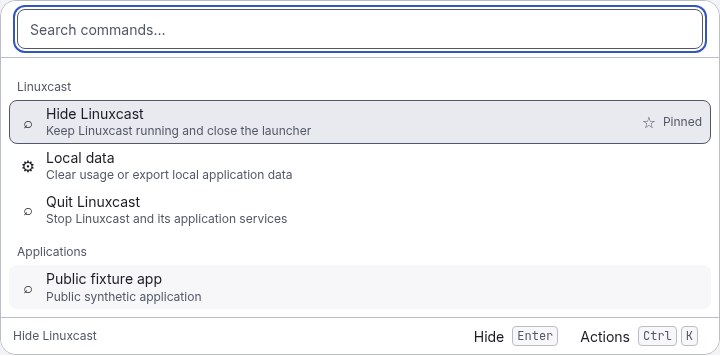
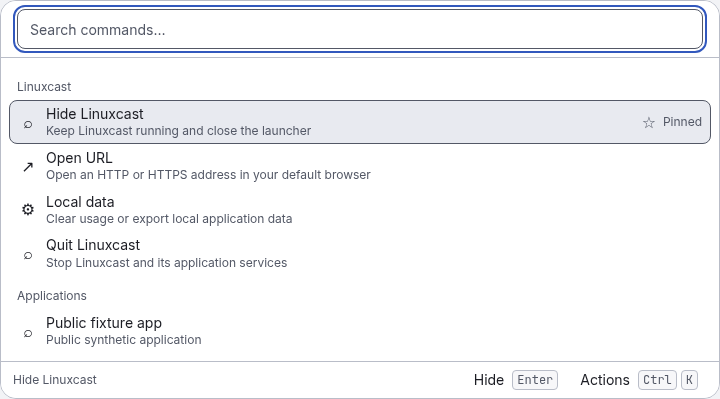
Verify explicit browser handoff and recovery in the production application

diff --git a/apps/desktop/tests/shell.integration.test.ts b/apps/desktop/tests/shell.integration.test.ts
@@ -7,7 +7,7 @@ import { readFile } from 'node:fs/promises';
 import { randomUUID } from 'node:crypto';
 import AxeBuilder from '@axe-core/playwright';
 import { execFileSync, spawn } from 'node:child_process';
-import { mkdtempSync, mkdirSync, rmSync, writeFileSync } from 'node:fs';
+import { existsSync, mkdtempSync, mkdirSync, rmSync, writeFileSync } from 'node:fs';
 import { createRequire } from 'node:module';
 import { tmpdir } from 'node:os';
 import { dirname, join, resolve } from 'node:path';
@@ -47,6 +47,24 @@ Name=Public fixture app
 Comment=Public synthetic application
 Exec="${applicationTarget}" "two words" "literal;$(no-shell)" %c %% %f %u
 `,{mode:0o600});
+  const urlMarker=join(temporary,'url-handoff.json'),urlTarget=join(temporary,'public browser handler with spaces');
+  writeFileSync(urlTarget,`#!/usr/bin/python3
+import json,sys
+with open(${JSON.stringify(urlMarker)},'w',encoding='utf-8') as output:
+ json.dump({'argv':sys.argv[1:],'stdin':sys.stdin.read()},output)
+print('SYNTHETIC_BROWSER_STDOUT')
+print('SYNTHETIC_BROWSER_STDERR',file=sys.stderr)
+`,{mode:0o700});
+  const browserEntry=join(temporary,'data/applications/public-web.desktop');
+  const browserDesktop=`[Desktop Entry]
+Type=Application
+Name=Public browser fixture
+NoDisplay=true
+Exec="${urlTarget}" %u
+MimeType=x-scheme-handler/http;x-scheme-handler/https;
+`;
+  writeFileSync(browserEntry,browserDesktop,{mode:0o600});
+  writeFileSync(join(temporary,'config/mimeapps.list'),'[Default Applications]\nx-scheme-handler/http=public-web.desktop;\nx-scheme-handler/https=public-web.desktop;\n',{mode:0o600});
   const seed=await StorageOwner.open({dataDirectory:join(temporary,'data/linuxcast'),applicationBuild:'synthetic-data-settings'});
   seed.request({schemaVersion:1,requestId:randomUUID(),method:'commands.recordUse',params:{commandId:'builtin.public-fixture'}});
   await seed.confirmSuccessfulLaunch();await seed.close();
@@ -57,23 +75,61 @@ Exec="${applicationTarget}" "two words" "literal;$(no-shell)" %c %% %f %u
     XDG_RUNTIME_DIR: join(temporary, 'runtime'), XDG_SESSION_TYPE: 'x11',XDG_DATA_DIRS:join(temporary,'system'),XDG_CONFIG_DIRS:join(temporary,'config'),XDG_CURRENT_DESKTOP:'GNOME',DBUS_SESSION_BUS_ADDRESS:'unix:path=/nonexistent-linuxcast-app-fixture-bus' };
   for (const key of ['DISPLAY', 'XAUTHORITY', 'PATH', 'LANG'])
     if (process.env[key]) env[key] = process.env[key]!;
+  const showExisting=async()=>await new Promise<number>((resolve,reject)=>{
+    const second=spawn(executable,[wrapper,'--show'],{env,stdio:'ignore'});
+    const timer=setTimeout(()=>{second.kill('SIGKILL');reject(new Error('Application reopen timed out.'));},10000);
+    second.once('error',error=>{clearTimeout(timer);reject(error);});second.once('exit',code=>{clearTimeout(timer);resolve(code??1);});
+  });
   application = await electron.launch({ executablePath: executable, args: [wrapper, '--show'],
     chromiumSandbox: true, env, timeout: 20000 });
   const app = application, page = await app.firstWindow();
   await page.waitForURL(appUrl);
   const query=page.getByRole('searchbox',{name:'Search commands',exact:true});
   await query.waitFor({timeout:5000});
-  await expect.poll(()=>page.getByRole('option').count()).toBe(4);
+  await expect.poll(()=>page.getByRole('option').count()).toBe(5);
   await expect.poll(()=>query.evaluate(element=>element===document.activeElement)).toBe(true);
   await query.fill('Public fixture app');
   await expect.poll(()=>page.getByRole('option').count()).toBe(1);
   await query.press('Enter');
   await expect.poll(async()=>{try{return JSON.parse(await readFile(launchMarker,'utf8'));}catch{return null;}}).toEqual({argv:['two words','literal;$(no-shell)','Public fixture app','%'],stdin:''});
   await expect.poll(()=>app.evaluate(({BrowserWindow})=>BrowserWindow.getAllWindows()[0]!.isVisible())).toBe(false);
-  expect(await new Promise<number>((resolve,reject)=>{const second=spawn(executable,[wrapper,'--show'],{env,stdio:'ignore'});const timer=setTimeout(()=>{second.kill('SIGKILL');reject(new Error('Application reopen timed out.'));},10000);second.once('error',error=>{clearTimeout(timer);reject(error);});second.once('exit',code=>{clearTimeout(timer);resolve(code??1);});})).toBe(0);
+  expect(await showExisting()).toBe(0);
   await expect.poll(()=>app.evaluate(({BrowserWindow})=>BrowserWindow.getAllWindows()[0]!.isVisible())).toBe(true);
+  // A URL query offers a local command. Only explicit Form submission reaches GIO.
+  const publicUrl='https://example.invalid/search?q=%24%28touch%20NO_SHELL%29%3B%20%22two%20words%22#public';
+  await query.fill(publicUrl);await expect.poll(()=>page.getByRole('option').count()).toBe(1);
+  await expect.poll(()=>page.getByRole('option',{selected:true}).textContent()).toContain('Open URL');
+  expect(existsSync(urlMarker)).toBe(false);await query.press('Enter');
+  const urlField=page.getByRole('textbox',{name:/^URL/});await urlField.waitFor();
+  expect(await urlField.inputValue()).toBe(publicUrl);expect(existsSync(urlMarker)).toBe(false);
+  await page.getByRole('button',{name:'Cancel',exact:true}).click();await query.waitFor();expect(existsSync(urlMarker)).toBe(false);
+  await query.press('Enter');await urlField.waitFor();await urlField.fill('javascript:alert(1)');
+  await page.getByRole('button',{name:'Open URL',exact:true}).click();
+  await expect.poll(()=>urlField.getAttribute('aria-invalid')).toBe('true');expect(existsSync(urlMarker)).toBe(false);
+  await urlField.fill(publicUrl);
+  const urlEvidence=join(root,'apps/desktop/evidence');mkdirSync(urlEvidence,{recursive:true});
+  for(const theme of ['dark','light'] as const){
+    await app.evaluate(({nativeTheme},value)=>{nativeTheme.themeSource=value;},theme);
+    await expect.poll(()=>page.locator('.lc-theme').getAttribute('data-lc-theme')).toBe(theme);
+    await page.evaluate(async()=>{await document.fonts.ready;await Promise.all(document.getAnimations().map(animation=>animation.finished.catch(()=>{})));});
+    await page.screenshot({path:join(urlEvidence,`open-url-${theme}.png`)});
+    expect((await new AxeBuilder({page}).setLegacyMode().analyze()).violations).toEqual([]);
+  }
+  // Missing native default is real, not an instrumented browser-success response.
+  rmSync(browserEntry);await page.getByRole('button',{name:'Open URL',exact:true}).click();
+  await expect.poll(()=>page.getByRole('alert').textContent()).toContain('Browser handoff is unavailable');
+  expect(await urlField.inputValue()).toBe(publicUrl);expect(await urlField.getAttribute('aria-invalid')).not.toBe('true');expect(existsSync(urlMarker)).toBe(false);
+  writeFileSync(browserEntry,browserDesktop,{mode:0o600});
+  await page.getByRole('button',{name:'Open URL',exact:true}).click();
+  await expect.poll(async()=>{try{return JSON.parse(await readFile(urlMarker,'utf8'));}catch{return null;}}).toEqual({argv:[publicUrl],stdin:''});
+  await expect.poll(()=>app.evaluate(({BrowserWindow})=>BrowserWindow.getAllWindows()[0]!.isVisible())).toBe(false);
+  expect(await showExisting()).toBe(0);await expect.poll(()=>app.evaluate(({BrowserWindow})=>BrowserWindow.getAllWindows()[0]!.isVisible())).toBe(true);
+  await expect.poll(()=>page.evaluate(async()=>{
+    const reply=await (window as unknown as {linuxcast:DesktopShellApi}).linuxcast.getLauncherCommands();
+    return reply.ok?reply.value.commands.find(command=>command.id==='linuxcast:open-url')?.usage:null;
+  })).toMatchObject({useCount:1});
   await query.fill('data');await expect.poll(()=>page.getByRole('option',{selected:true}).textContent()).toContain('Local data');await query.fill('');
-  await expect.poll(()=>page.getByRole('option').count()).toBe(4);
+  await expect.poll(()=>page.getByRole('option').count()).toBe(5);
   await query.press('ArrowDown');
   await expect.poll(()=>page.getByRole('option',{selected:true}).textContent()).toContain('Hide Linuxcast');
   await query.press('ArrowUp');
@@ -81,10 +137,10 @@ Exec="${applicationTarget}" "two words" "literal;$(no-shell)" %c %% %f %u
   await query.fill('no actual command');
   await expect.poll(()=>page.getByRole('heading',{name:'No matching results'}).isVisible()).toBe(true);
   await query.fill('');
-  await expect.poll(()=>page.getByRole('option').count()).toBe(4);
+  await expect.poll(()=>page.getByRole('option').count()).toBe(5);
   // Pinning is an explicit metadata edit, not a command execution.
   await query.fill('hide');await expect.poll(()=>page.getByRole('option',{selected:true}).textContent()).toContain('Hide Linuxcast');await query.fill('');
-  await expect.poll(()=>page.getByRole('option').count()).toBe(4);
+  await expect.poll(()=>page.getByRole('option').count()).toBe(5);
   await expect.poll(()=>page.getByRole('option',{selected:true}).textContent()).toContain('Hide Linuxcast');
   await query.press('Control+k');
   await page.getByRole('searchbox',{name:'Find an action'}).fill('Pin command');
@@ -127,7 +183,7 @@ Exec="${applicationTarget}" "two words" "literal;$(no-shell)" %c %% %f %u
     return { require: typeof windowApi.require, process: typeof windowApi.process,
       methods: Object.keys(windowApi.linuxcast ?? {}).sort(), runtime: windowApi.linuxcast?.runtime };
   })).toEqual({ require: 'undefined', process: 'undefined',
-    methods: ['executeLauncherCommand', 'getLauncherCommands', 'getState', 'hideLauncher', 'onState', 'openDataSettings', 'quit', 'reportContentHeight', 'runtime', 'setLauncherAlias', 'setLauncherPinned'],
+    methods: ['executeLauncherCommand', 'getLauncherCommands', 'getState', 'hideLauncher', 'onState', 'openDataSettings', 'openLauncherUrl', 'quit', 'reportContentHeight', 'runtime', 'setLauncherAlias', 'setLauncherPinned'],
     runtime: { sandboxed: true, contextIsolated: true } });
   expect(await page.evaluate(async () => {
     return await new Promise<boolean>(resolve => {
@@ -187,6 +243,8 @@ Exec="${applicationTarget}" "two words" "literal;$(no-shell)" %c %% %f %u
   expect(before.data.records).toContainEqual(expect.objectContaining({commandId:'builtin.public-fixture',useCount:1}));
   expect(before.data.records.find((record:{commandId:string})=>record.commandId.startsWith('application:'))).toMatchObject({useCount:1});
   expect(before.data.records).toContainEqual(expect.objectContaining({commandId:'linuxcast:open-local-data',useCount:1}));
+  expect(before.data.records).toContainEqual(expect.objectContaining({commandId:'linuxcast:open-url',useCount:1}));
+  expect(JSON.stringify(before)).not.toContain(publicUrl);
   expect(before.data.records).toContainEqual(expect.objectContaining({commandId:'linuxcast:hide',pinned:true,useCount:0,lastUsedAt:null,alias:'public-hide'}));
   await app.evaluate(({dialog})=>{dialog.showMessageBox=async()=>({response:1,checkboxChecked:false});});
   await data.getByRole('button',{name:'Clear command usage'}).click();await expect.poll(()=>data.getByRole('status').textContent()).toBe('Data cleared.');

diff --git a/native/platform/src/lib.rs b/native/platform/src/lib.rs
@@ -1,2 +1,2 @@
-pub mod index;
 pub mod applications;
+pub mod index;

diff --git a/docs/implementation/tasks/L1-02.md b/docs/implementation/tasks/L1-02.md
@@ -44,22 +44,38 @@ Shared contracts, dependency manifests, lockfiles, migration numbering and task 
     Outcome: Native GIO Exec fixture preserves spaces, literal shell-looking text and field codes without a shell; malformed/bounded protocol fails closed. Renderer receives opaque command IDs only. URI/file/argv/shell entry remains unimplemented, so criterion stays pending.
     Platform/backend: Pop!_OS/Ubuntu-based amd64 development host; verified Node24.22.1/Bun1.4.4, Rust1.95, GIO2.72.4, Electron45/SQLite3.53.4 private Xvfb; Chromium fixtures. No Debian/session/AT/release claim.
     Reference: 0df46b7/5b21f1c/d9687f9/d233946 plus coordinator application integration; apps/desktop/tests/shell.integration.test.ts; packages/builtins/applications/; native/platform/tests/applications.rs
+  - Command/check: `bun run typecheck; bun run lint; bun run test:unit -- L1-02; bun run test:security -- L1-02; bun run test:contracts -- L1-02; bun run test:ui -- L1-02; private-Xvfb bun run test:integration -- L1-02; cargo test --locked -p linuxcast-platform --test applications; cargo fmt --all -- --check; independent source review`.
+    Outcome: Explicit HTTP/HTTPS URLs are validated/canonicalized locally and revalidated at preload/main/native boundaries. Other schemes, credentials, raw whitespace/control/surrogate/backslash, malformed percent, unknown/extra fields and oversized inputs fail closed. Native GIO passes exactly one literal URI to current default with isolated stdio, never shell interpolation. This is bounded URL/application evidence; additional scoped URI/file/argv/shell/action/history paths remain required, so full criterion stays pending.
+    Platform/backend: Pop!_OS22.04/Ubuntu amd64 development host; verified Node24.22.1/Bun1.4.4, Rust1.95, GIO2.72.4, Electron45/SQLite3.53.4 private Xvfb; Chromium fixtures. No Debian/session/AT/release claim.
+    Reference: fbc5636/303f28e/31ce975/21671a8/69a30c9/aece225; native/platform/tests/applications.rs; apps/desktop/tests/shell.integration.test.ts; apps/desktop/evidence/open-url-{dark,light}.png
 - [ ] **pending** `L1-02-AC02` — Applications with spaces/arguments and unavailable executables report accurately.
   - Command/check: `bun run typecheck; bun run lint; bun run test:unit -- L1-02; bun run test:security -- L1-02; bun run test:ui -- L1-02; bun run test:integration -- L1-02; cargo test --locked -p linuxcast-platform --test applications; independent source review`.
     Outcome: Actual private desktop entry launches a real fixture executable with spaces and exact argv/stdin marker from the production Electron launcher. Hidden/deleted/missing executable and changed fingerprint are refused; unknown post-dispatch outcomes are explicit and never replayed. DBus/terminal/localization and supported desktop matrix remain pending.
     Platform/backend: Pop!_OS/Ubuntu-based amd64 development host; verified Node24.22.1/Bun1.4.4, Rust1.95, GIO2.72.4, Electron45/SQLite3.53.4 private Xvfb; Chromium fixtures. No Debian/session/AT/release claim.
     Reference: 0df46b7/5b21f1c/d9687f9/d233946 plus coordinator application integration; apps/desktop/tests/shell.integration.test.ts; packages/builtins/applications/; native/platform/tests/applications.rs
+  - Command/check: `bun run typecheck; bun run lint; bun run test:unit -- L1-02; bun run test:security -- L1-02; bun run test:contracts -- L1-02; bun run test:ui -- L1-02; private-Xvfb bun run test:integration -- L1-02; cargo test --locked -p linuxcast-platform --test applications; cargo fmt --all -- --check; independent source review`.
+    Outcome: 8actual private-XDG GIO cases pass for original primary apps plus HTTP/HTTPS, missing/non-URI/default changes, literal arguments and working-directory failure. Canonical named/IDNA/IPv4/IPv6/port and encoded URI corpus preserved. A reviewed numeric0x suffix mismatch fixed with actual dispatch regressions. Receipts mean dispatch only; GIO can acknowledge before later target startup failure. Supported desktop/DBus/terminal/localization matrix remains pending.
+    Platform/backend: Pop!_OS22.04/Ubuntu amd64 development host; verified Node24.22.1/Bun1.4.4, Rust1.95, GIO2.72.4, Electron45/SQLite3.53.4 private Xvfb; Chromium fixtures. No Debian/session/AT/release claim.
+    Reference: fbc5636/303f28e/31ce975/21671a8/69a30c9/aece225; native/platform/tests/applications.rs; apps/desktop/tests/shell.integration.test.ts; apps/desktop/evidence/open-url-{dark,light}.png
 - [ ] **pending** `L1-02-UI` — Relevant design states and keyboard/accessibility paths are covered for user-facing changes.
   - Applies when: This task introduces or changes user-facing behaviour.
   - Command/check: `bun run typecheck; bun run lint; bun run test:unit -- L1-02; bun run test:security -- L1-02; bun run test:ui -- L1-02; bun run test:integration -- L1-02; cargo test --locked -p linuxcast-platform --test applications; independent source review`.
     Outcome: 42unit/search/catalogue/controller,43security/main/preload,14browser cases pass; actual production Electron flow5.31s passes search/Enter→GIO process marker→Hide/reopen, pin/restart and real owner export. Selection crossing top20 stays selected. Dark/light and error/unavailable/unconfirmed pin images inspected; browser axe passes. Native AT and desktop matrix remain pending.
     Platform/backend: Pop!_OS/Ubuntu-based amd64 development host; verified Node24.22.1/Bun1.4.4, Rust1.95, GIO2.72.4, Electron45/SQLite3.53.4 private Xvfb; Chromium fixtures. No Debian/session/AT/release claim.
     Reference: 0df46b7/5b21f1c/d9687f9/d233946 plus coordinator application integration; apps/desktop/tests/shell.integration.test.ts; packages/builtins/applications/; native/platform/tests/applications.rs
+  - Command/check: `bun run typecheck; bun run lint; bun run test:unit -- L1-02; bun run test:security -- L1-02; bun run test:contracts -- L1-02; bun run test:ui -- L1-02; private-Xvfb bun run test:integration -- L1-02; cargo test --locked -p linuxcast-platform --test applications; cargo fmt --all -- --check; independent source review`.
+    Outcome: 108unit,84security,33Chromium keyboard/axe,3URLcontract and8native checks pass. Actual production Electron/private-Xvfb flow7.60s proves URLquery->shared Form only, cancel/invalid input no dispatch, real missing default/status, restore/same-value explicit retry, exact URLargv/stdin process marker, receipt->Hide/reopen and real owner count/export excluding URL. Actual dark/light Form and seven affected-state screenshots inspected. Unknown outcomes require explicit check-browser/reload; separate Hide failure never replays. Native AT/session/full UI gates remain pending.
+    Platform/backend: Pop!_OS22.04/Ubuntu amd64 development host; verified Node24.22.1/Bun1.4.4, Rust1.95, GIO2.72.4, Electron45/SQLite3.53.4 private Xvfb; Chromium fixtures. No Debian/session/AT/release claim.
+    Reference: fbc5636/303f28e/31ce975/21671a8/69a30c9/aece225; native/platform/tests/applications.rs; apps/desktop/tests/shell.integration.test.ts; apps/desktop/evidence/open-url-{dark,light}.png
 - [x] **passed** `L1-02-PRIVACY` — No secrets/private content enter fixtures, diagnostics or screenshots.
   - Command/check: `bun run typecheck; bun run lint; bun run test:unit -- L1-02; bun run test:security -- L1-02; bun run test:ui -- L1-02; bun run test:integration -- L1-02; cargo test --locked -p linuxcast-platform --test applications; independent source review`.
     Outcome: Only generated public desktop-entry/application names and private temporary fixture targets enter tests; screenshots contain public fixture labels. Query stays local; no renderer Exec/path/credential interface, raw helper errors or inherited provider/loader environment. Independent source reviews clean.
     Platform/backend: Pop!_OS/Ubuntu-based amd64 development host; verified Node24.22.1/Bun1.4.4, Rust1.95, GIO2.72.4, Electron45/SQLite3.53.4 private Xvfb; Chromium fixtures. No Debian/session/AT/release claim.
     Reference: 0df46b7/5b21f1c/d9687f9/d233946 plus coordinator application integration; apps/desktop/tests/shell.integration.test.ts; packages/builtins/applications/; native/platform/tests/applications.rs
+  - Command/check: `bun run typecheck; bun run lint; bun run test:unit -- L1-02; bun run test:security -- L1-02; bun run test:contracts -- L1-02; bun run test:ui -- L1-02; private-Xvfb bun run test:integration -- L1-02; cargo test --locked -p linuxcast-platform --test applications; cargo fmt --all -- --check; independent source review`.
+    Outcome: Only public generated URL/desktop/command fixtures and private temporary targets are used. No browser/network opens on query/form open/cancel; only explicitly submitted validated URL enters fixed typed method/helper stdin, never argv/environment/logs/errors. Real owner export records only OpenURL command aggregate and omits address. No provider/credentials, generic shell/file/URI or remote-query authority reaches renderer. Independent final source review clean.
+    Platform/backend: Pop!_OS22.04/Ubuntu amd64 development host; verified Node24.22.1/Bun1.4.4, Rust1.95, GIO2.72.4, Electron45/SQLite3.53.4 private Xvfb; Chromium fixtures. No Debian/session/AT/release claim.
+    Reference: fbc5636/303f28e/31ce975/21671a8/69a30c9/aece225; native/platform/tests/applications.rs; apps/desktop/tests/shell.integration.test.ts; apps/desktop/evidence/open-url-{dark,light}.png
 
 ## Validation
 
@@ -77,9 +93,11 @@ Coordinator records the implementation PR/commit, check outcomes, desktop/backen
 - Started25October2026 from merged launcher/pin PR27/1f13d1b. Coordinator isolated codex/application-launcher; owned application package/launcher/search author codex/l1-02-application-flow; native adapter in codex/l1-02-gio-native. Shared wire/paging/native-helper dispatch0df46b7, actual GIO sourceff5a942 integrated5b21f1c. Native4private-XDG fixture checks passed; independently reviewed clean. Actual full app integration remains in progress; no acceptance inferred from assignment or native-only tests.
 - Reviewed bounded application increment25October2026: actual installed primary GIO desktop applications appear through the existing launcher, local search/keyboard selection, Open and persistent Pin. Fixed native helper ships with production build; main owns catalogue revisions, identity/revalidation and trusted dispatch.42unit +43security +14browser +4native integration checks pass; actual full production Electron/private-Xvfb app flow5.31s passes with real process/argv marker and real SQLite owner export. Typecheck/lint pass. Independent reviews clean after selected-result cap retention and concurrent pin/catalogue-removal acknowledgement fixes. Full L1-02 remains in-progress; unfinished scope and desktop/release acceptance are explicit.
 - Integrated25October2026 in PR28 https://github.com/ianwijma/linuxcast/pull/28, mergef8e3b7fb509007760661739c1f662535668bd1d1 at12:08:17UTC. Exact reviewed head2de2f04 CI40191744487 passed; no requested GitHub reviews/comments/unresolved threads. Normal exact-head merge; primary develop fast-forwarded clean. Full task remains in-progress.
+- Next bounded application increment25October2026 from merged PR29/524755d: explicit typed HTTP/HTTPS Open URL via existing launcher/shared Form, fixed validated native GIO default-handler dispatch and command-only usage. Isolated coordinator codex/typed-url-launcher; application author codex/l1-02-url-flow; native author codex/l1-02-url-native. All author/reviewer agents explicitly GPT-6.1 SOL high. Frozen contractfbc5636, trusted main/preload303f28e, native3c35b39 integrated21671a8. Shared35security/3URLcontracts and8native checks passed; application integration/review remain underway. No task/prerequisite/native acceptance inferred from partial evidence.
+- Bounded explicit Open URL increment25October2026: native author3c35b39/66ca32f integrated21671a8/69a30c9, application author1219ba0 integratedaece225, coordinator shared/main/preloadfbc5636/303f28e/31ce975 and real production fixture.108unit +84security +33browser +3URLcontracts +8native pass; actual production Electron45/SQLite3.53.4 private-Xvfb flow7.60s passes real missing-default recovery and actual one-URI process marker, separate Hide/reopen, owner usage/export and existing app/pin/alias/data/restart regression. Typecheck/lint/rustfmt/plan/diff pass. All author/reviewer agents GPT-6.1 SOL high. Independent shared/native/feature review clean after canonical hostname suffix correction; reviewer independently passed108units/35main/preload/3contracts, coordinator reran all84security/8native with working real pipes. Full task remains in-progress, no native desktop/release completion claim.
 
 ## Outstanding limitations
 
 - Development uses reviewed merged L1-01/F3 interfaces; broader provider/fallback/host permission UI and their native acceptance remain pending. User authorized unfinished application increments, not completion claims; all original prerequisites remain required for task/release completion.
-- Current bounded increment covers registered primary GIO desktop application discovery/launch. Desktop Actions, typed URI/file/argv/shell entry and complete run-history administration remain required future L1-02 work. No shell parser or arbitrary renderer execution is substituted.
+- Integrated increments cover primary GIO desktop discovery/launch and explicit typed HTTP/HTTPS handoff to the current default browser. Desktop Actions, additional scoped URI/file/argv/shell entry and complete per-item/full clearable URL/run-history administration remain required future L1-02 work. URLs are not persisted by this slice; only command-use aggregates are recorded. No shell parser or arbitrary renderer execution is substituted.
 - Private-XDG fixtures on GLib/GIO2.72.4 development host do not establish Debian13 GNOME/KDE Wayland/X11, localization, DBus/terminal target activation, packaged installation or release acceptance.

diff --git a/docs/implementation/PROGRESS.md b/docs/implementation/PROGRESS.md
@@ -51,3 +51,17 @@ Independent finalsource review CLEAN after four bounded fixes: malformed Unicode
 PR29 https://github.com/ianwijma/linuxcast/pull/29 merged524755d at12:27:44UTC after exact-reviewed-headca3b407 CI40193147435 passed, no requested reviews/comments/unresolved threads. Normal merge, primary develop refreshed clean. Both new SOL-high agents completed and no test process remains.
 
 Coordinator now reuses .worktrees/linuxcast-application-controls / codex/typed-url-launcher from524755d; only final merge checkpoint changed. Next selected bounded application flow: explicit Open URL, validated typed HTTP/HTTPS user intent through existing launcher/shared Form and native trusted handler, with generated private dispatch fixture. Not implemented/assigned yet; read complete L1-02/security/normative refs before code and freeze coordinator interface before SOL-high assignment. No keystroke network requests, implicit browser opening, renderer shell/openExternal authority or scope expansion. Full L1-01/L1-02 and all97task goal remain unfinished; remainingprovider/visibility/fallback, othertypedactions/history, prerequisiteUI/nativeAT/session/package/release gates unchanged.
+
+## Ready-to-publish L1-02 explicit web URL flow
+
+Previous goal turn was progress: application launch PR28 and alias PR29 merged. Remote develop verified524755d with no open PRs at start. Goal active, all97tasks intact.
+
+Coordinator `.worktrees/linuxcast-application-controls` / `codex/typed-url-launcher` ataece225 plus reviewed actual Electron fixture/screenshots/README/registry and lib.rs format-order fix. Shared contractfbc5636, main/preload303f28e, URL contracts31ce975. Native author3c35b39 integrated21671a8 and reviewed hostnamefix66ca32f integrated69a30c9. Feature author1219ba0 integratedaece225. Author `.worktrees/linuxcast-l1-01` / `codex/l1-02-url-flow` clean1219ba0; native `.worktrees/linuxcast-l1-02-native` / `codex/l1-02-url-native` clean66ca32f. All authors/reviewer explicitly GPT-6.1 SOL high, completed. No test process remains.
+
+Final checks PASS:108unit,84mapped security (49real child-pipe transport+28main+7preload),33Chromium keyboard/axe,3URLcontracts,8actual native private-XDG tests. Root typecheck/lint/cargo fmt/diff pass; author native clippy passes. Independent shared/native/feature source review CLEAN; reviewer independently passed108units/35main/preload/3contracts. Initial reviewer transport tests could not start synthetic helpers under restricted pipes; coordinator permitted rerun of all84security passed. One initial production assertion expected aria-invalid=false rather than valid unset attribute; corrected test, no app workaround.
+
+Actual production Electron45/SQLite3.53.4 private-Xvfb complete flow PASS7.60s: URLquery offers registered OpenURL, Form opening/cancel no dispatch; invalidscheme no dispatch; privateNoDisplay defaultHTTP/HTTPS handler actually removed -> known status/no marker; restored -> same-value manualretry spawns real private executable with exact one URLargv/stdinempty. Valid receipt then named Hide/reopen. Real owner useCount1 and export omitting URL; existing actual app/pin/alias/data/restart regressions pass. Actual dark/light URL Form screenshots and seven component affected states inspected; axe passes. Native picker/confirmation choices in data regression remain instrumented, no physical desktop claim.
+
+Main validates own frame, exact schema/revision/serialized intent. Canonical HTTP(S) only, no credentials/raw control/surrogate/backslash/malformed percent/missing authority, max8192bytes. Native resolves current default each time, fixed GIO one-URI /dev/null dispatch and DBus flush, no shell or target-completion claim. Typing/formopening/cancel never transmits. Only OpenURL command aggregate persists, no URL content/history. UI dismisses only after receipt; Hide failure remains separate. Unknown outcome requires checking browser and explicit Reload; automatic refresh cannot clear gate. Known missing default permits manual same-value retry. Review hostname0x/empty-suffix mismatch fixed with actual corpus regressions.
+
+Immediate next: commit/push final integration/evidence, open focused PR, inspect current-head CI and configured/requested reviews/comments/threads, normal exact-head merge, fast-forward primary and checkpoint. Full L1-02/prerequisites remain in-progress: Desktop Actions, additional scoped URI/file/argv/shell, full per-item/full URL/run-history administration, localization/DBus/terminal/default backend/session/nativeAT/installed package/release acceptance pending. No new infrastructure/proof assignment or scope reduction.

diff --git a/apps/desktop/README.md b/apps/desktop/README.md
@@ -23,6 +23,8 @@ the launched application. Debian package installation remains F1-03 work.
 
 The launcher searches installed applications discovered through native GIO alongside Local data, Hide Linuxcast and Quit Linuxcast. Exact aliases, local title/keyword matching, saved usage and stable keyboard selection are implemented. Enter executes the selected action; Ctrl+K opens actions; Escape closes actions before dismissing the launcher. Queries remain local and never enter IPC. Application metadata is loaded in bounded pages and ranked locally; no other provider or unavailable system action is simulated. Main maps opaque IDs to its own desktop identities and fingerprints, rechecks through GIO, and reports a dispatch receipt rather than focus/completion. Applications that change or become unavailable require Reload commands. Successful dispatch hides the launcher and records clearable usage.
 
+Open URL is a separate registered command and shared form. A valid HTTP/HTTPS address in the query offers it locally and prefills the canonical address; opening or cancelling the form never dispatches. Only explicit submission reaches the narrow URL IPC and current native GIO default scheme handler. Credentials, other schemes, malformed addresses and oversized input are refused. Known missing defaults preserve the draft for manual retry after browser settings are repaired; uncertain outcomes require checking the browser and explicit Reload without replay. A validated dispatch receipt is followed by the named Hide operation; a Hide failure does not relabel the browser handoff. Only command-use totals are saved, with no address history in this increment.
+
 Actions also exposes Pin command/Unpin command for the selected result. Pinning is saved through the sole SQLite owner without executing the command or increasing usage. A visible Pinned label identifies saved favourites; empty-query ordering respects them while preserving selection. An unconfirmed save requires Reload commands before another metadata change; it is never replayed automatically.
 
 Edit search alias opens the shared form for the selected command. Save a short alias or leave it empty to remove it; exact alias searches stay local and still execute only the registered trusted command. Collisions are shown inline, while stale/unavailable or uncertain changes offer explicit Reload. Saving changes only the existing owner alias field, preserves pins and usage, and survives restart.
@@ -55,4 +57,4 @@ GNOME/KDE, Wayland focus, Orca or the full release desktop matrix. Shared UI
 component screenshots and browser evidence are recorded in
 `packages/ui/src/primitives/README.md`.
 
-L1-02 primary application launch is a bounded increment. Native desktop Actions, typed URI/file/argv/shell entry, complete run-history administration, native session/assistive-technology and package-release acceptance remain unfinished. The actual GIO test target is a private generated executable that records arguments; this is real process dispatch, not proof of GTK/Qt/terminal rendering or focus.
+L1-02 primary application launch is a bounded increment. Native desktop Actions, additional scoped URI/file/argv/shell entry and complete clearable URL/run-history administration, native session/assistive-technology and package-release acceptance remain unfinished. The actual GIO test target is a private generated executable that records arguments; this is real process dispatch, not proof of GTK/Qt/terminal rendering or focus.
